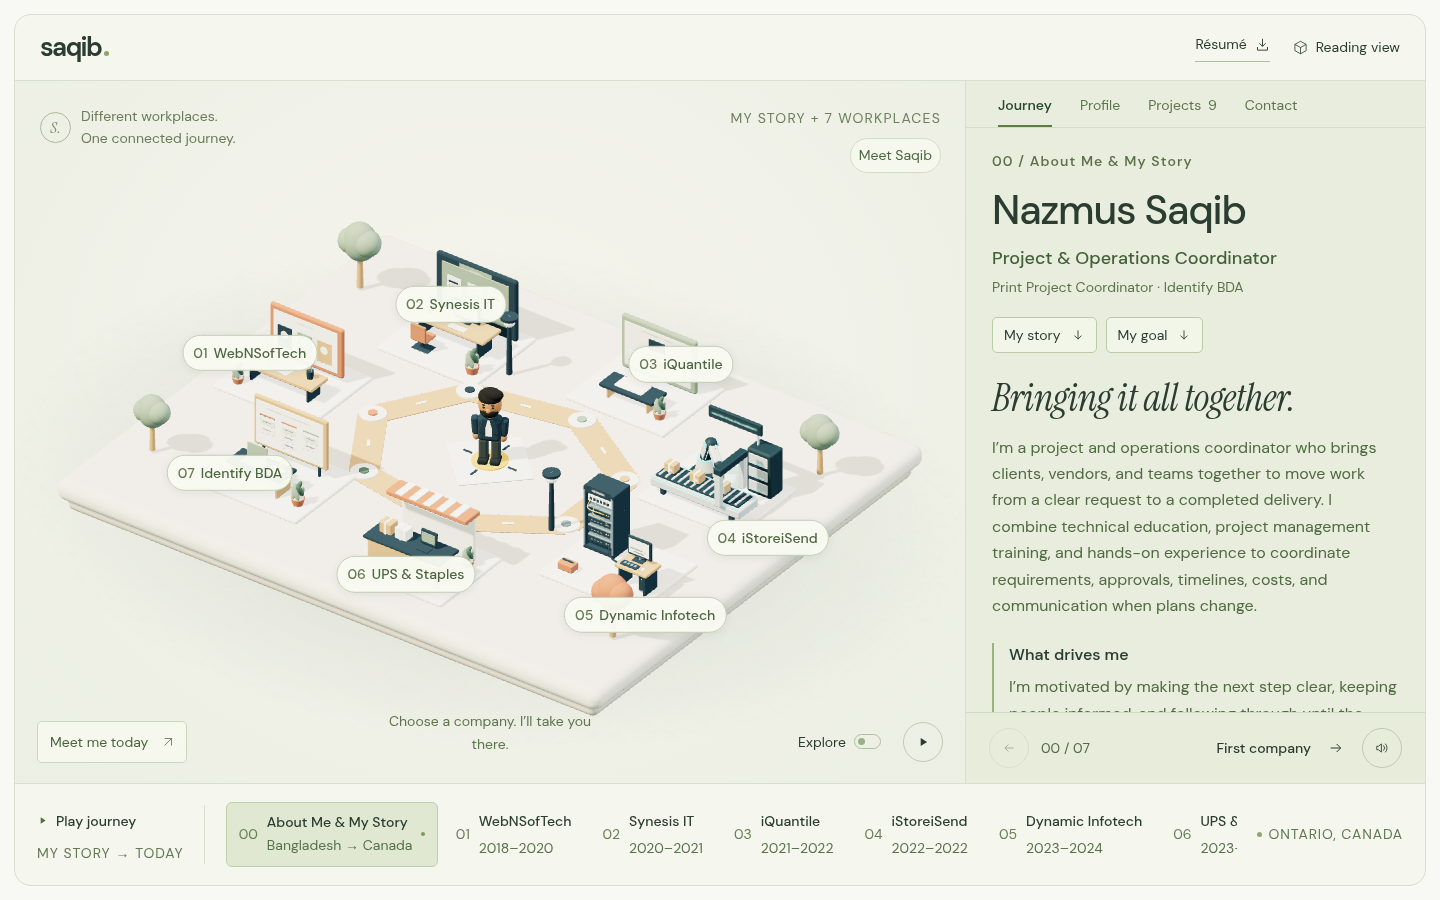
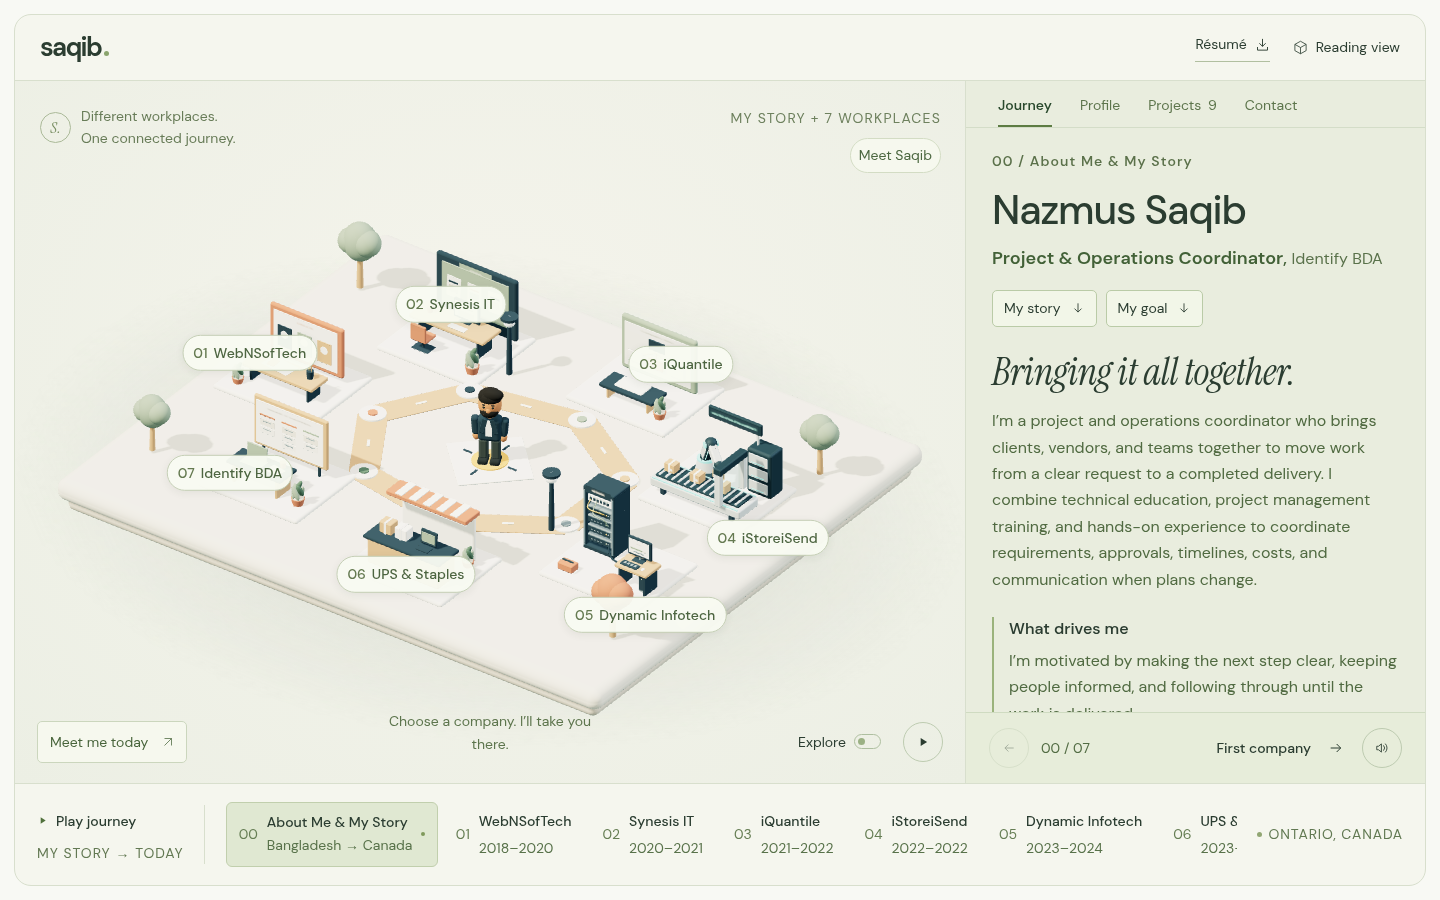
Update coordinator title and personal story heading

Changed region(s): [[0.6875, 0.28, 0.9688, 0.7778]]

diff --git a/src/content.js b/src/content.js
@@ -4,16 +4,16 @@
 export const aboutMe = {
   name: 'Nazmus Saqib',
   position: 'Project & Operations Coordinator',
-  currentRole: 'Print Project Coordinator · Identify BDA',
+  company: 'Identify BDA',
   professionalStatement: 'I’m a project and operations coordinator who brings clients, vendors, and teams together to move work from a clear request to a completed delivery. I combine technical education, project management training, and hands-on experience to coordinate requirements, approvals, timelines, costs, and communication when plans change.',
   tagline: 'Bringing it all together.',
   motivation: 'I’m motivated by making the next step clear, keeping people informed, and following through until the work is delivered.',
   goal: 'I’m looking for Project Coordinator or Assistant Project Manager opportunities where I can help teams plan clearly, communicate well, and deliver dependable results.',
-  storyTitle: 'From Bangladesh to Canada. From understanding needs to coordinating delivery.',
+  storyTitle: 'From Bangladesh to Canada. From understanding needs to coordinating Projects.',
   story: [
     'I’m originally from Bangladesh, where I earned a degree in Computer Science & Engineering from North South University. I began working in UX in 2020 at Synesis IT, learning to listen carefully and turn needs into clear requirements. Across my work at Synesis IT, iQuantile, and iStoreiSend, I developed a wider view of how business needs, technical teams, and operational workflows connect.',
     'I came to Canada as a student in 2022 and completed graduate certificates in Interactive Media Management at Centennial College and Project Management at Sir Sandford Fleming College. Alongside my studies and transition into the Canadian workplace, I gained customer-facing experience at UPS and Staples and worked on-call at Dynamic Infotech. Those roles strengthened my communication, practical problem solving, and ability to balance priorities.',
-    'In October 2024, I joined Identify BDA as a Print Project Coordinator. Today, I connect client requirements with vendors, approvals, production, delivery, and financial follow-up. Becoming a coordinator brought together the parts of my earlier work I use most: understanding the requirement, communicating across teams, and keeping the next step moving. I’m now building toward Project Coordinator and Assistant Project Manager opportunities.',
+    'In October 2024, I joined Identify BDA as a Project & Operations Coordinator. Today, I connect client requirements with vendors, approvals, production, delivery, and financial follow-up. Becoming a coordinator brought together the parts of my earlier work I use most: understanding the requirement, communicating across teams, and keeping the next step moving. I’m now building toward Project Coordinator and Assistant Project Manager opportunities.',
   ],
 };
 
@@ -49,7 +49,7 @@ export const chapters = [
     eyebrow: '04 / BRINGING IT TOGETHER',
     title: 'Turn the plan into progress.',
     body: 'Today, I coordinate projects and operations at Identify BDA. I connect client requirements with vendor capabilities, keep approvals and timelines moving, resolve issues, and follow the work through production, delivery, and billing. My focus is bringing people and moving parts together.',
-    detail: 'Official role: Print Project Coordinator · Identify BDA · October 2024–present.',
+    detail: 'Role: Project & Operations Coordinator · Identify BDA · October 2024–present.',
     tags: ['Project & operations coordination', 'Client & vendor liaison', 'Delivery & follow-through'],
     place: 'Canada / Today',
     period: '2024–present',
@@ -65,7 +65,7 @@ export const projects = [
     company: 'Identify BDA · Canada',
     collaboration: 'Project coordination',
     summary: 'Keeping client requirements, vendors, approvals, production, and delivery connected across a typical 6–10 projects each month.',
-    role: 'Print Project Coordinator',
+    role: 'Project & Operations Coordinator',
     challenge: 'Keep changing requirements, supplier options, approvals, deadlines, and delivery details aligned as projects move between clients, internal colleagues, and production partners.',
     approach: [
       'Clarify the request, confirm specifications and dependencies, coordinate artwork, and obtain client approvals before production.',
@@ -261,7 +261,7 @@ export const projects = [
 export const experience = [
   {
     period: 'Oct 2024–present',
-    title: 'Print Project Coordinator',
+    title: 'Project & Operations Coordinator',
     company: 'Identify BDA · Canada',
     description: 'Coordinate client requirements, artwork approvals, vendor sourcing, quotations, production, delivery, and financial follow-up. Work directly with clients, internal colleagues, and a network of 20+ external vendors.',
   },
@@ -478,7 +478,7 @@ export const careerStops = [
     id: 'identify',
     company: 'Identify BDA',
     label: 'Identify BDA',
-    role: 'Print Project Coordinator',
+    role: 'Project & Operations Coordinator',
     start: '2024-10',
     end: null,
     period: 'Oct 2024–Present',

diff --git a/tests/portfolio.spec.js b/tests/portfolio.spec.js
@@ -42,7 +42,7 @@ test('chapter 00 introduces Saqib and his story before the employer journey', as
   await loadWorld(page, baseURL);
   const about = page.locator('#about-card');
   await expect(about).toBeVisible();
-  for (const text of ['About Me & My Story', 'Nazmus Saqib', 'Project & Operations Coordinator', 'Print Project Coordinator', 'Identify BDA', 'Bringing it all together.', 'Bangladesh', 'Canada', '2022', 'Centennial College', 'Sir Sandford Fleming College', 'October 2024', 'Assistant Project Manager']) {
+  for (const text of ['About Me & My Story', 'Nazmus Saqib', 'Project & Operations Coordinator', 'Identify BDA', 'Bringing it all together.', 'Bangladesh', 'Canada', '2022', 'Centennial College', 'Sir Sandford Fleming College', 'October 2024', 'Assistant Project Manager']) {
     await expect(about).toContainText(text);
   }
   await expect(page.locator('#career-track [data-stop-index]').first()).toHaveAttribute('data-stop-index', '-1');
@@ -98,7 +98,7 @@ test('seven employer cards follow career chronology with dates, tenure, and accu
     await expect(page.locator('#world')).toHaveAttribute('data-active-company', companies[index]);
     await expect(page.locator(`[data-stop-index="${index}"]`)).toHaveAttribute('aria-pressed', 'true');
   }
-  await expect(page.locator('#company-role')).toHaveText('Print Project Coordinator');
+  await expect(page.locator('#company-role')).toHaveText('Project & Operations Coordinator');
   await expect(page.locator('#company-dates')).toHaveText('Oct 2024–Present');
   await expect(page.locator('#next-stop')).toContainText('Back to my story');
   await page.locator('#next-stop').click();
@@ -159,7 +159,7 @@ test('company project names open details and return focus to the selected employ
   await page.locator('#dialog-close').click();
   await page.locator('#go-today').click();
   await page.getByRole('button', { name: 'Read From request to delivery project story' }).click();
-  await expect(page.getByRole('dialog')).toContainText('Print Project Coordinator');
+  await expect(page.getByRole('dialog')).toContainText('Project & Operations Coordinator');
   await expect(page.getByRole('dialog')).toContainText('20+ external vendors');
   await page.locator('#dialog-close').click();
   await assertSingleViewport(page);

diff --git a/src/main.js b/src/main.js
@@ -62,7 +62,7 @@ function projectNames(stop) {
 
 function aboutMarkup(compact = false) {
   return `<article class="about-story ${compact?'reading-about':''} ${active===-1?'is-current':''}" id="about-card" aria-labelledby="about-title">
-    <div class="about-overview"><header><p class="eyebrow">00 / About Me &amp; My Story</p><h1 id="about-title">${esc(aboutMe.name)}</h1><p class="about-position">${esc(aboutMe.position)}</p><p class="about-current-role">${esc(aboutMe.currentRole)}</p><div class="about-links"><button type="button" data-about-jump="story" aria-label="Read my story: Bangladesh to Canada">My story ${icons.next}</button><button type="button" data-about-jump="goal" aria-label="My career goal">My goal ${icons.next}</button></div></header>
+    <div class="about-overview"><header><p class="eyebrow">00 / About Me &amp; My Story</p><h1 id="about-title">${esc(aboutMe.name)}</h1><p class="about-position"><strong>${esc(aboutMe.position)}</strong>, <span class="about-company">${esc(aboutMe.company)}</span></p><div class="about-links"><button type="button" data-about-jump="story" aria-label="Read my story: Bangladesh to Canada">My story ${icons.next}</button><button type="button" data-about-jump="goal" aria-label="My career goal">My goal ${icons.next}</button></div></header>
     <h3 class="about-tagline">${esc(aboutMe.tagline)}</h3><p class="about-statement">${esc(aboutMe.professionalStatement)}</p>
     <section class="about-motivation"><h3>What drives me</h3><p>${esc(aboutMe.motivation)}</p></section>
     <section class="about-goal"><h3 id="about-goal-title" tabindex="-1">Where I’m headed</h3><p>${esc(aboutMe.goal)}</p></section><footer class="about-signature"><span>THE WORLD OF MY WORK</span><span aria-hidden="true">/</span><strong>PEOPLE. PLANS. FOLLOW-THROUGH.</strong></footer></div>

diff --git a/src/styles.css b/src/styles.css
@@ -88,7 +88,8 @@ button:focus-visible, a:focus-visible, summary:focus-visible, canvas:focus-visib
 .about-story { min-width: 0; animation: card-in .3s ease both; }
 .about-story h1 { font-size: clamp(2rem, 2.8vw, 2.75rem); font-weight: 500; letter-spacing: -1.2px; line-height: 1.15; margin-top: 14px; }
 .about-position { font-size: 1.125rem; line-height: 1.5; font-weight: 500; color: #426137; margin-top: 12px; }
-.about-current-role { font-size: .875rem; line-height: 1.6; color: #5a724b; margin-top: 4px; }
+.about-position strong { font-weight: 600; }
+.about-company { font-size: 1rem; font-weight: 400; color: #5a724b; }
 .about-links { display: flex; flex-wrap: wrap; gap: 9px; margin-top: 18px; }
 .about-links button { display: inline-flex; align-items: center; gap: 10px; min-height: 36px; padding: 6px 11px; border: 1px solid #bacba7; border-radius: 5px; background: #f2f6e8; font-size: .875rem; }
 .about-links button:hover { background: #dce8c9; }

diff --git a/README.md b/README.md
@@ -1,6 +1,6 @@
 # Nazmus Saqib — A world of connected work
 
-A single-viewport portfolio about project and operations coordination, built with Vite, vanilla JavaScript, and Three.js. It opens with “00 About Me & My Story” at the central plaza, followed by seven employers in chronological order, from WebNSofTech to Identify BDA. The profile summary and résumé target Project Coordinator and Assistant Project Manager opportunities while preserving official employment titles. Earlier UX work appears as career history, alongside individual, team, and academic project stories.
+A single-viewport portfolio about project and operations coordination, built with Vite, vanilla JavaScript, and Three.js. It opens with “00 About Me & My Story” at the central plaza, followed by seven employers in chronological order, from WebNSofTech to Identify BDA. The profile summary and résumé target Project Coordinator and Assistant Project Manager opportunities. Earlier UX work appears as career history, alongside individual, team, and academic project stories.
 
 The page fits the browser viewport on desktop and mobile. Longer role descriptions, profile details, project collections, and case studies scroll inside their own panels; the page itself does not scroll.
 
